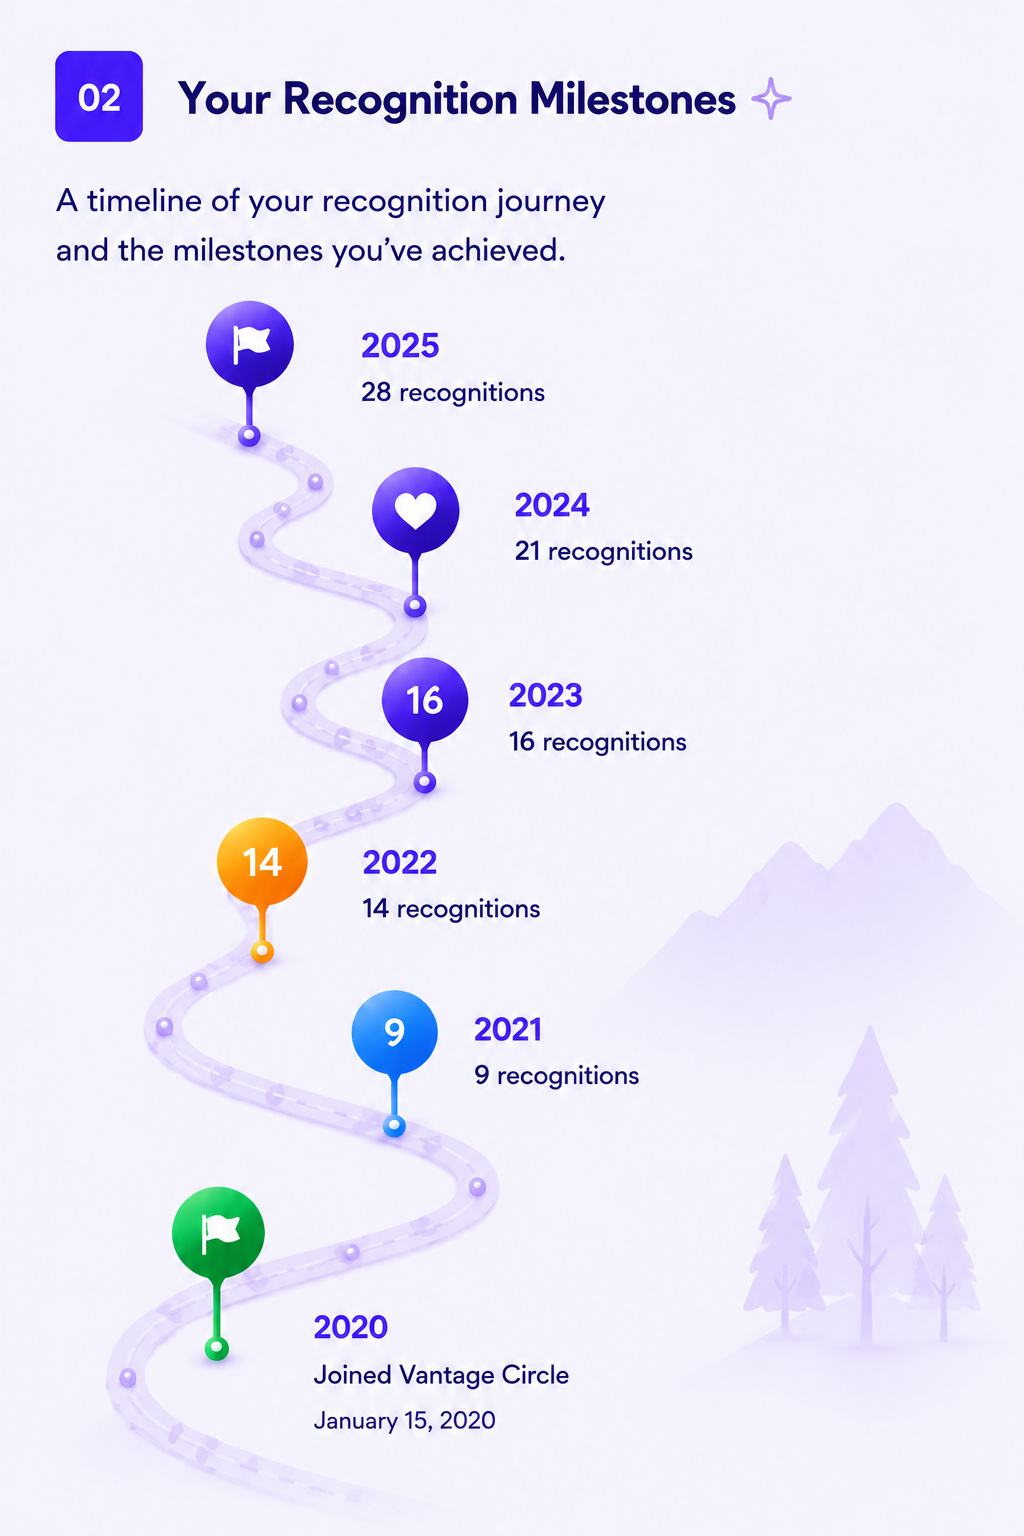
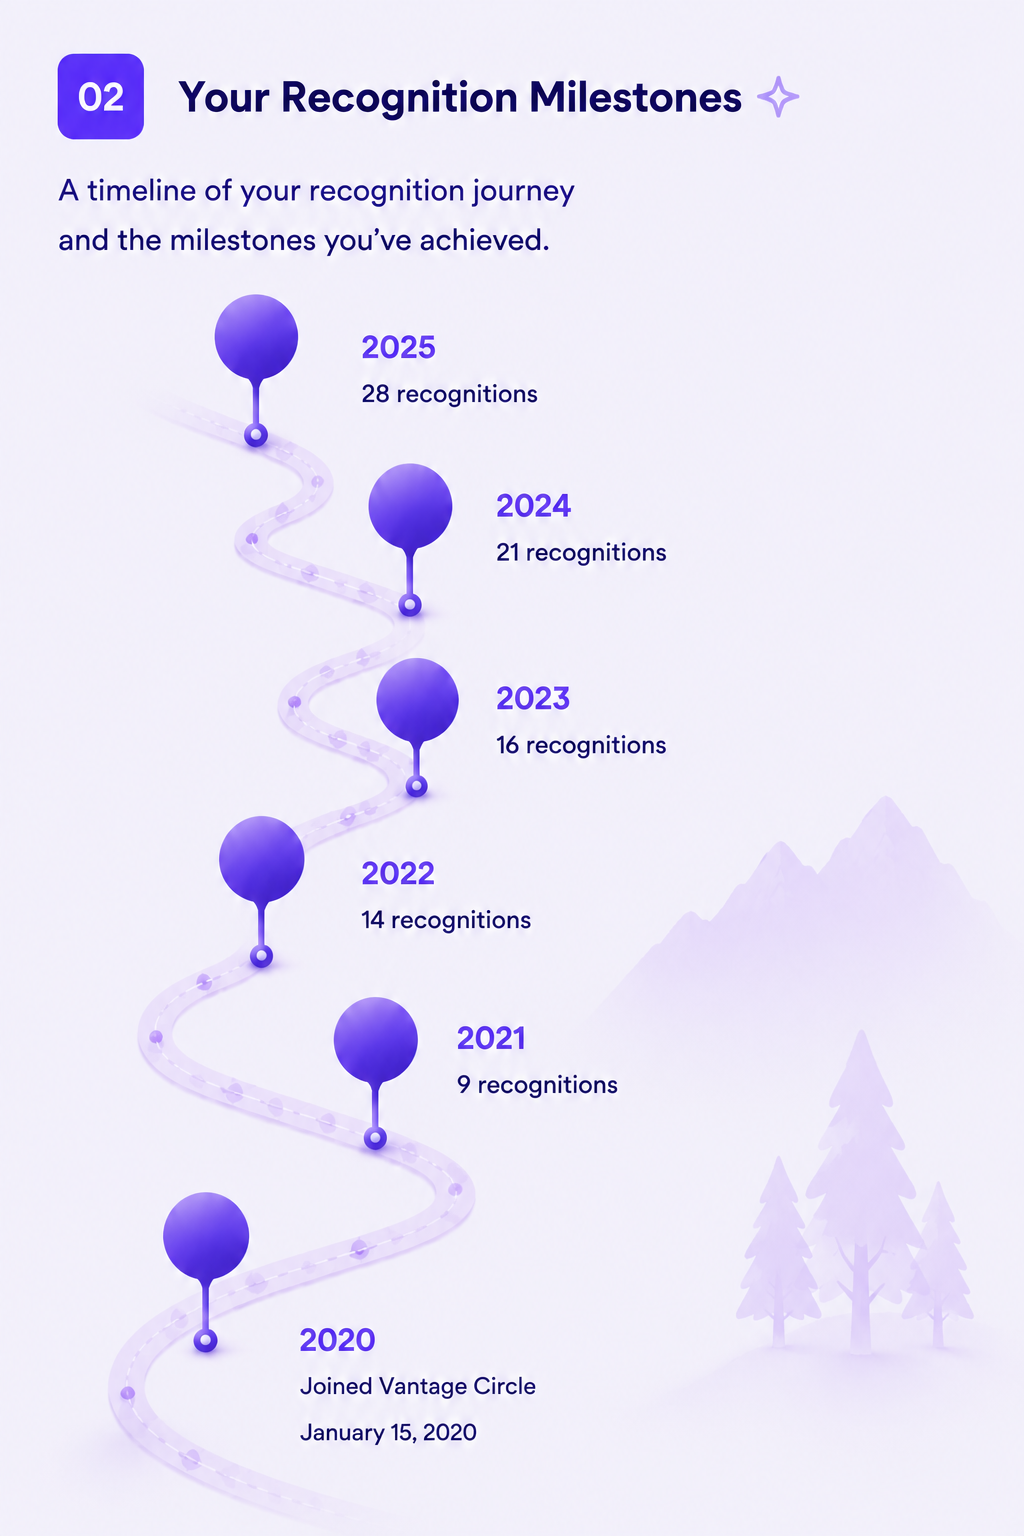
Update milestone and values slides; add cache-busting
- Updated 3 Your Recognition Milestones.png (uniform purple dot style)
- Updated 4 Values You Represent.png (letter-icon style)
- Added ?v=2 cache-busting to updated images in index.html
- Fixed download to fetch versioned URL but save clean filename

diff --git a/Final/index.html b/Final/index.html
@@ -377,15 +377,15 @@
 
   <script>
     const slides = [
-      { file: "1 Cover.png",                        label: "Cover" },
-      { file: "2 Your Impact.png",                  label: "Your Impact" },
-      { file: "3 Your Recognition Milestones.png",  label: "Milestones" },
-      { file: "Recognitions from People.png",       label: "Recognitions" },
-      { file: "4 Values You Represent.png",         label: "Values" },
-      { file: "5 Badge Cabinet.png",                label: "Badge Cabinet" },
-      { file: "6 Award Cabinet.png",                label: "Award Cabinet" },
-      { file: "7 How You Built Culture.png",        label: "Culture" },
-      { file: "8 End Page.png",                     label: "End Page" }
+      { file: "1 Cover.png?v=2",                        label: "Cover" },
+      { file: "2 Your Impact.png?v=1",                  label: "Your Impact" },
+      { file: "3 Your Recognition Milestones.png?v=2",  label: "Milestones" },
+      { file: "Recognitions from People.png?v=1",       label: "Recognitions" },
+      { file: "4 Values You Represent.png?v=2",         label: "Values" },
+      { file: "5 Badge Cabinet.png?v=1",                label: "Badge Cabinet" },
+      { file: "6 Award Cabinet.png?v=1",                label: "Award Cabinet" },
+      { file: "7 How You Built Culture.png?v=1",        label: "Culture" },
+      { file: "8 End Page.png?v=1",                     label: "End Page" }
     ];
 
     let current = 0;
@@ -513,7 +513,7 @@
         const url   = URL.createObjectURL(blob);
         const a     = document.createElement('a');
         a.href      = url;
-        a.download  = 'Recognition_Journey_' + label.replace(/\s+/g, '_') + '.png';
+        a.download  = 'Recognition_Journey_' + label.replace(/\s+/g, '_') + '.png';  // ?v=x stripped — fetch uses it, filename doesn't
         document.body.appendChild(a);
         a.click();
         document.body.removeChild(a);